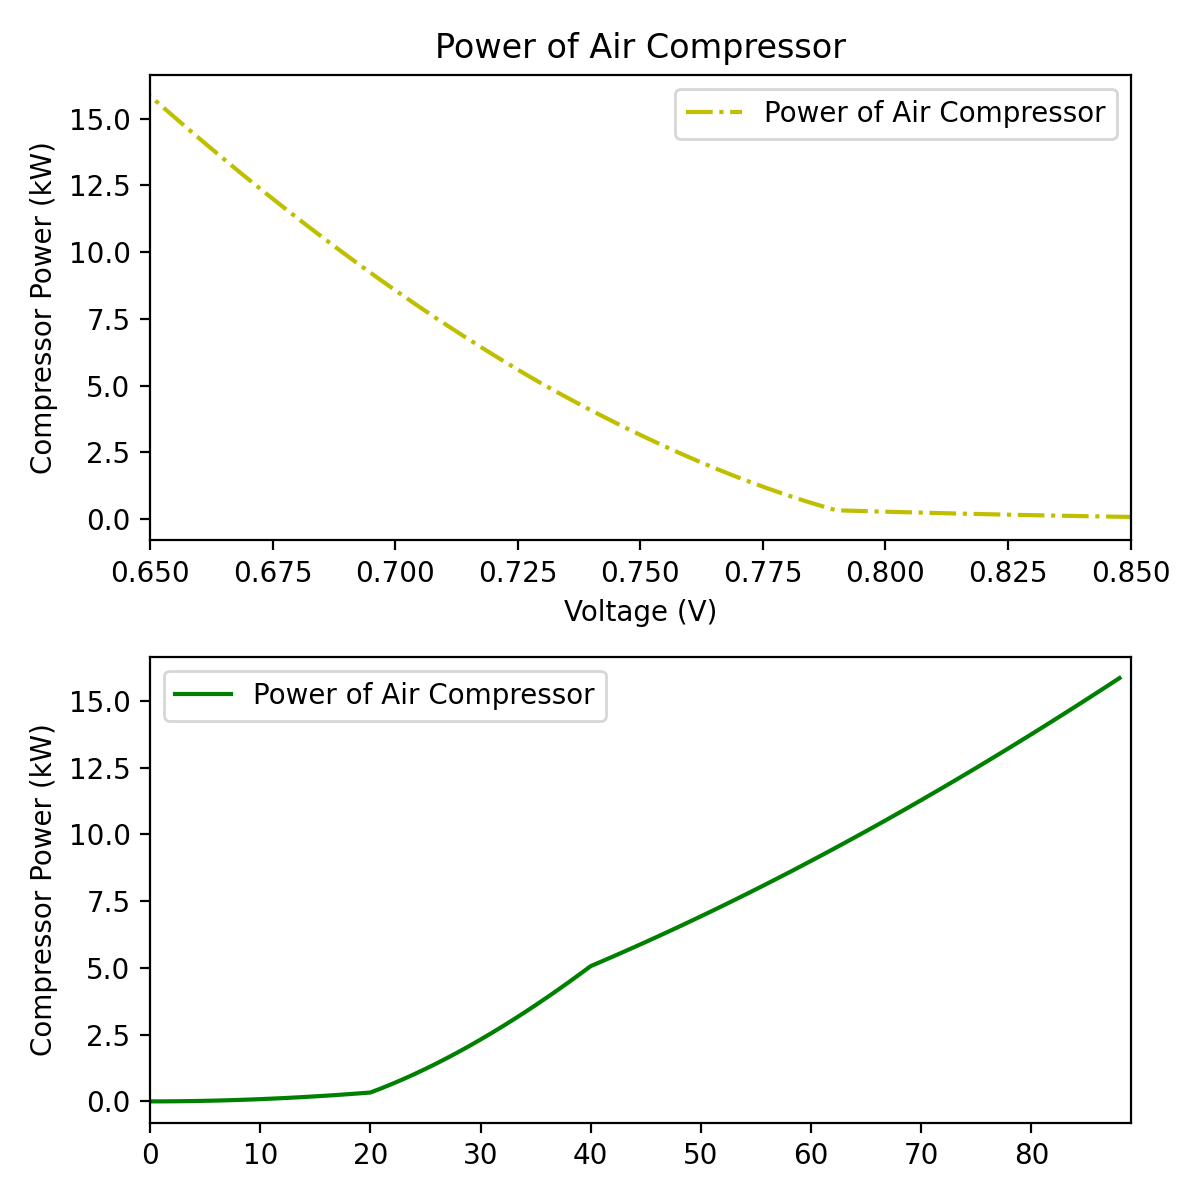
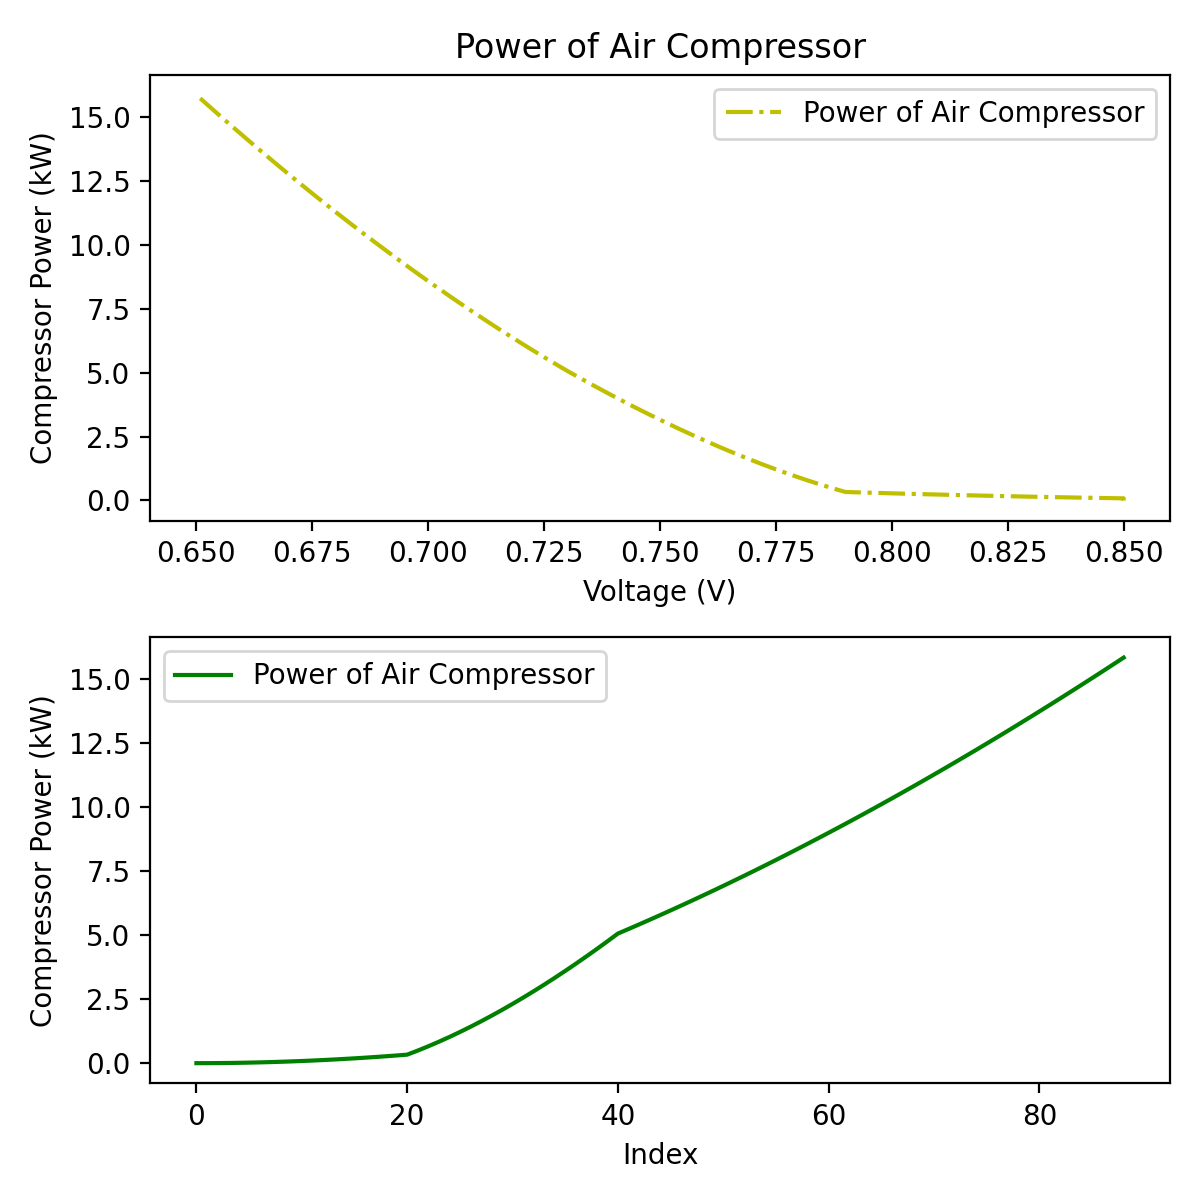
V9

diff --git a/Plot02.py b/Plot02.py
@@ -1,13 +1,15 @@
 import pandas as pd
 import matplotlib.pyplot as plt
 import numpy as np
+from scipy.interpolate import interp1d
+from Plot01_V1 import calculate_forces, calculate_power
 
-#-------------------- Parameter ----------------------------#
+#-------------------- Parameter Initialization ----------------------------#
 file = 'Plot02.xlsx'
 df = pd.read_excel(file, header=0)
 
 data = pd.DataFrame({
-    "M_H2": [5.6],  # kg
+    "M_tank": [5.6],  # kg
     "P_H2": [700],  # bar
     "Molar_mass_dihydrogen": [2.016],  # g/mol
     "LHV": [242],  # kJ/mol
@@ -16,8 +18,8 @@ data = pd.DataFrame({
     "Faraday_const": [96487],  # C/mol
     "Air_stoich": [1.5],
     "P_atm": [1],  # bar
-    "O2_molar_fraction_ambient_air": [21/100],  # %
-    "Air_compressor_efficiency": [60/100],  # %
+    "O2_molar_fraction_ambient_air": [21 / 100],  # %
+    "Air_compressor_efficiency": [60 / 100],  # %
     "N_cell": [330],
     "Area_stack": [273],  # cm^2
     "Gamma": [1.4],
@@ -25,34 +27,29 @@ data = pd.DataFrame({
     "Ambient_temperature": [298]  # K
 })
 
+#-------------------- Question a 1: Compressor Power Calculation ----------------------------#
+P_com = np.zeros(len(df.iloc[0:, ]))
 
-#-------------------- Question a 1 ----------------------------#
-
-tor = np.zeros(len(df.iloc[0:,]))
-P_com = np.zeros(len(df.iloc[0:,]))
-
-for i in range(len(df.iloc[0:,])):
+for i in range(len(df.iloc[0:, ])):
     P_com[i] = (1 / data['Air_compressor_efficiency'][0]) * \
                (data['Air_stoich'][0] / data['O2_molar_fraction_ambient_air'][0]) * \
                (data['N_cell'][0] * df['i (A/cm²)'][i]) / (4 * data['Faraday_const'][0]) * \
                (data['Gamma'][0] / (data['Gamma'][0] - 1)) * \
                (data['R'][0] * data['Ambient_temperature'][0]) * \
-               ((df['P air (bar)'][i]/data['P_atm'][0])** ((data['Gamma'][0]-1) / (data['Gamma'][0]))-1)*data['Area_stack'][0]/1000
-# Plot the compressor power (P_com)
+               ((df['P air (bar)'][i] / data['P_atm'][0])**((data['Gamma'][0] - 1) / data['Gamma'][0]) - 1) * data['Area_stack'][0] / 1000
+
+# Plot compressor power
 plt.figure(figsize=(6, 6))
 plt.subplot(2, 1, 1)
-plt.plot(df['U_cell (V)'], P_com, 'y-.', label='Power of Air Compressor')  # Use range(len(df)) for the x-axis
+plt.plot(df['U_cell (V)'], P_com, 'y-.', label='Power of Air Compressor')
 plt.title('Power of Air Compressor')
-plt.xlim([min(df['U_cell (V)']), 1*max(df['U_cell (V)'])])
 plt.xlabel('Voltage (V)')
 plt.ylabel('Compressor Power (kW)')
 plt.legend()
 
 plt.subplot(2, 1, 2)
-plt.plot( P_com, 'g-', label='Power of Air Compressor')  # Use range(len(df)) for the x-axis
-# plt.title('Power of Air Compressor')
-plt.xlim([0, len(df.iloc[0:,])])
-plt.xlabel('')
+plt.plot(P_com, 'g-', label='Power of Air Compressor')
+plt.xlabel('Index')
 plt.ylabel('Compressor Power (kW)')
 plt.legend()
 
@@ -60,44 +57,39 @@ plt.tight_layout()
 plt.savefig('Power_of_Air_compressor.png', dpi=200)
 plt.show()
 
+#-------------------- Question a 2: Fuel Cell Power Calculation ----------------------------#
+P_fuel = np.zeros(len(df.iloc[0:, ]))
 
-#-------------------- Question a 2 ----------------------------#
+for j in range(len(df.iloc[0:, ])):
+    P_fuel[j] = df['U_cell (V)'][j] * df['i (A/cm²)'][j] * data['N_cell'][0] * data['Area_stack'][0]
 
-P_fuel = np.zeros(len(df.iloc[0:,]))
-
-for j in range(len(df.iloc[0:,])):
-    P_fuel[j] =  df['U_cell (V)'][j]*df['i (A/cm²)'][j]*data['N_cell'][0]*data['Area_stack'][0]
-
-# Plot the compressor power (P_com)
+# Plot fuel cell power
 plt.figure(figsize=(6, 6))
 plt.subplot(2, 1, 1)
-plt.plot(df['U_cell (V)'], P_fuel/1000, 'b-.', label='Power Electricity by Fuel cell')  # Use range(len(df)) for the x-axis
-plt.title('Power Electricity by Fuel cell')
-plt.xlim([min(df['U_cell (V)']), 1*max(df['U_cell (V)'])])
+plt.plot(df['U_cell (V)'], P_fuel / 1000, 'b-.', label='Power by Fuel Cell')
+plt.title('Power by Fuel Cell')
 plt.xlabel('Voltage (V)')
-plt.ylabel('Power Electricity by Fuel cell (kW)')
+plt.ylabel('Power (kW)')
 plt.legend()
 
 plt.subplot(2, 1, 2)
-plt.plot( P_fuel/1000, 'r-', label='Power Electricity by Fuel cell')  # Use range(len(df)) for the x-axis
-plt.xlim([0, len(df.iloc[0:,])])
-plt.xlabel('')
-plt.ylabel('Power Electricity by Fuel cell (kW)')
+plt.plot(P_fuel / 1000, 'r-', label='Power by Fuel Cell')
+plt.xlabel('Index')
+plt.ylabel('Power (kW)')
 plt.legend()
 
 plt.tight_layout()
 plt.savefig('Power_of_Fuel_Cell.png', dpi=200)
 plt.show()
 
-#-------------------- Question a 3 ----------------------------#
+#-------------------- Hydrogen Consumption Calculation ----------------------------#
+Hydro_com = np.zeros(len(df.iloc[0:, ]))
 
-Hydro_com = np.zeros(len(df.iloc[0:,]))
-molar_flow = np.zeros(len(df.iloc[0:,]))
-for i in range( len(df.iloc[0:,])):
-    molar_flow[i] = df['i (A/cm²)'][i]/(2*data['Faraday_const'][0])
-    Hydro_com[i] = molar_flow[i]*data['Molar_mass_dihydrogen'][0]*data['N_cell'][0]*data['Area_stack'][0]
+for i in range(len(df.iloc[0:, ])):
+    molar_flow = df['i (A/cm²)'][i] / (2 * data['Faraday_const'][0])
+    Hydro_com[i] = molar_flow * data['Molar_mass_dihydrogen'][0] * data['N_cell'][0] * data['Area_stack'][0]
 
-# Fit a 5th-degree polynomial to the hydrogen consumption data
+# Fit a 5th-degree polynomial to hydrogen consumption data
 coefficients = np.polyfit(df['i (A/cm²)'], Hydro_com, 5)
 polynomial = np.poly1d(coefficients)
 
@@ -105,7 +97,7 @@ polynomial = np.poly1d(coefficients)
 i_fit = np.linspace(min(df['i (A/cm²)']), max(df['i (A/cm²)']), 1000)
 hydro_fit = polynomial(i_fit)
 
-# Plot the hydrogen consumption and the fitted polynomial
+# Plot hydrogen consumption vs current density
 plt.figure(figsize=(6, 6))
 plt.plot(df['i (A/cm²)'], Hydro_com, 'bo', label='Hydrogen Consumption Data')
 plt.plot(i_fit, hydro_fit, 'r-', label='5th Degree Polynomial Fit')
@@ -115,8 +107,67 @@ plt.ylabel('Hydrogen Consumption (g)')
 plt.legend()
 plt.show()
 
+#-------------------- Drive Cycle Hydrogen Consumption Calculation ----------------------------#
+WLTC = pd.read_excel('Plot01.xlsx', sheet_name='Sheet1', header=0)
+speed = WLTC.iloc[:, 1].values
+time = WLTC.iloc[:, 0].values
 
-# --------------------------- Parameter Question 2 ----------------------------------
+# Interpolate current density to match WLTC time steps
+current_density = df['i (A/cm²)'].values
+interp_function = interp1d(np.linspace(0, time[-1], len(current_density)), current_density, kind='linear', fill_value='extrapolate')
+interpolated_current_density = interp_function(time)
 
-WLTC = pd.read_excel('Plot01.xlsx', sheet_name='Sheet1',header = 0)
+# Forces and power calculation based on speed
+v_s, acceleration, Fair, Frolling, Fcl = calculate_forces(time, speed)
+Instant_power, Hybrid, Bat_motor_gen, Bat_motor_demand = calculate_power(time, v_s, acceleration, Fair, Frolling, Fcl)
+
+# Hydrogen consumption during drive cycle
+Hydro_com_interp = np.zeros(len(time))
+for i in range(len(time)):
+    molar_flow = interpolated_current_density[i] / (2 * data['Faraday_const'][0])
+    Hydro_com_interp[i] = molar_flow * data['Molar_mass_dihydrogen'][0] * data['N_cell'][0] * data['Area_stack'][0] / 1000  # kg
+#-------------------- Total Hydrogen Consumption and Range ----------------------------#
+total_hydrogen_consumed = np.sum(Hydro_com_interp * np.diff(time, prepend=0))
+
+total_distance_m = np.sum(speed * np.diff(time, prepend=0))  # Total distance in meters
+total_distance_km = total_distance_m / 1000  # Convert to km
+average_hydro_com_per_100km = (total_hydrogen_consumed / total_distance_km) * 100  # kg H2 per 100 km
+operating_range = data['M_tank'] / (total_hydrogen_consumed / total_distance_km)  # in km
+
+#-------------------- Average Energetic Efficiency ----------------------------#
+LHV_H2 = 120_000  # Lower heating value of H2 in kJ/kg
+total_energy_content = total_hydrogen_consumed * LHV_H2  # Total energy content in kJ
+
+avg_power_output = np.mean(P_fuel) / 1000  # in kW
+total_time_hours = np.sum(np.diff(time, prepend=0)) / 3600  # Convert to hours
+
+efficiency = (avg_power_output * total_time_hours) / (total_energy_content / 3600)  # in %
+
+#-------------------- Print Final Results ----------------------------#
+# Extract scalar value for the operating range if it's a Series
+if isinstance(operating_range, pd.Series):
+    operating_range = operating_range.iloc[0]
+
+# Extract scalar value for average_hydro_com_per_100km if necessary
+if isinstance(average_hydro_com_per_100km, pd.Series):
+    average_hydro_com_per_100km = average_hydro_com_per_100km.iloc[0]
+
+# Extract scalar value for total_hydrogen_consumed if necessary
+if isinstance(total_hydrogen_consumed, pd.Series):
+    total_hydrogen_consumed = total_hydrogen_consumed.iloc[0]
+
+#-------------------- Print Final Results ----------------------------#
+print(f"Vehicle Operating Range: {operating_range:.2f} km")
+print(f"Average Hydrogen Consumption: {average_hydro_com_per_100km:.4f} kgH2/100 km")
+print(f"Average Fuel Cell Efficiency: {efficiency:.2f}%")
+print(f"Total Hydrogen Consumed: {total_hydrogen_consumed:.4f} kg")
+
+
+
+# Plot interpolated hydrogen consumption
+plt.plot(time, Hydro_com_interp, label='Interpolated Hydrogen Consumption (kg/s)')
+plt.xlabel('Time (s)')
+plt.ylabel('Hydrogen Consumption (kg/s)')
+plt.legend()
+plt.show()
 
